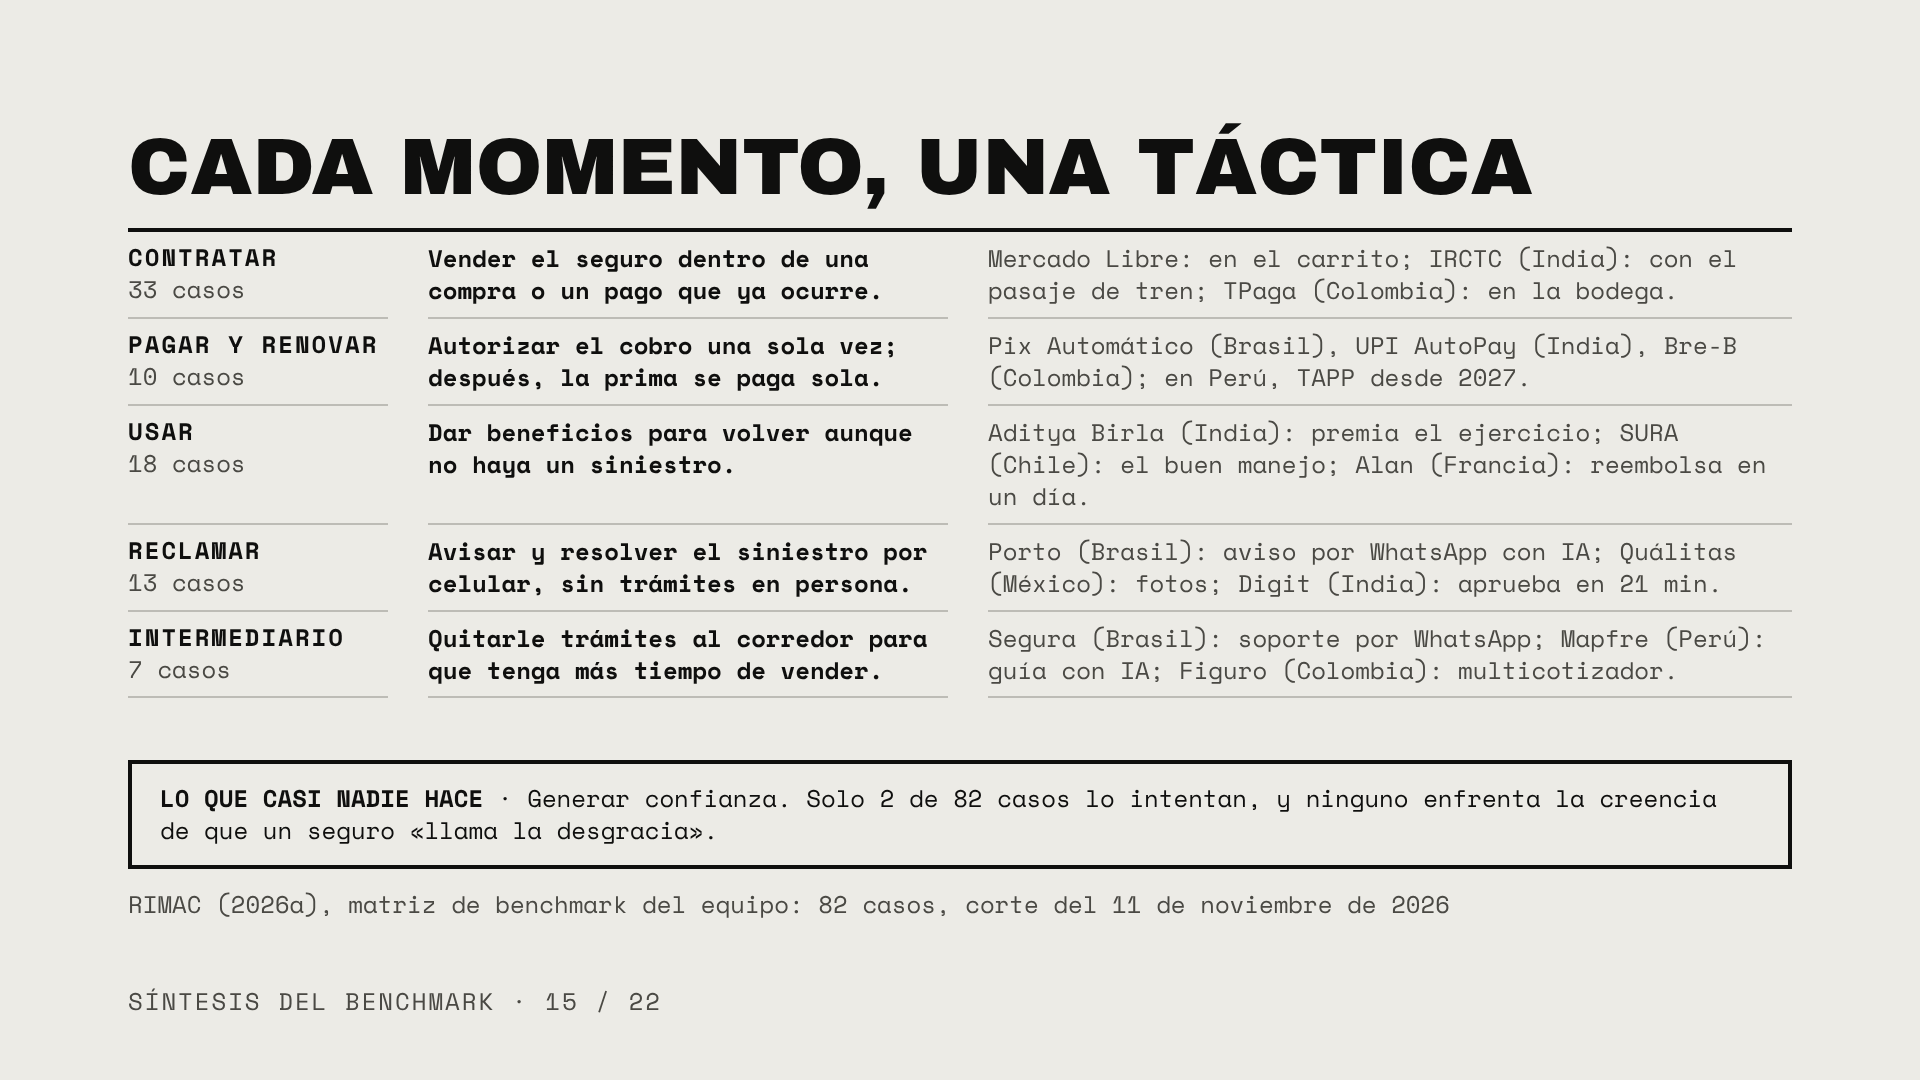
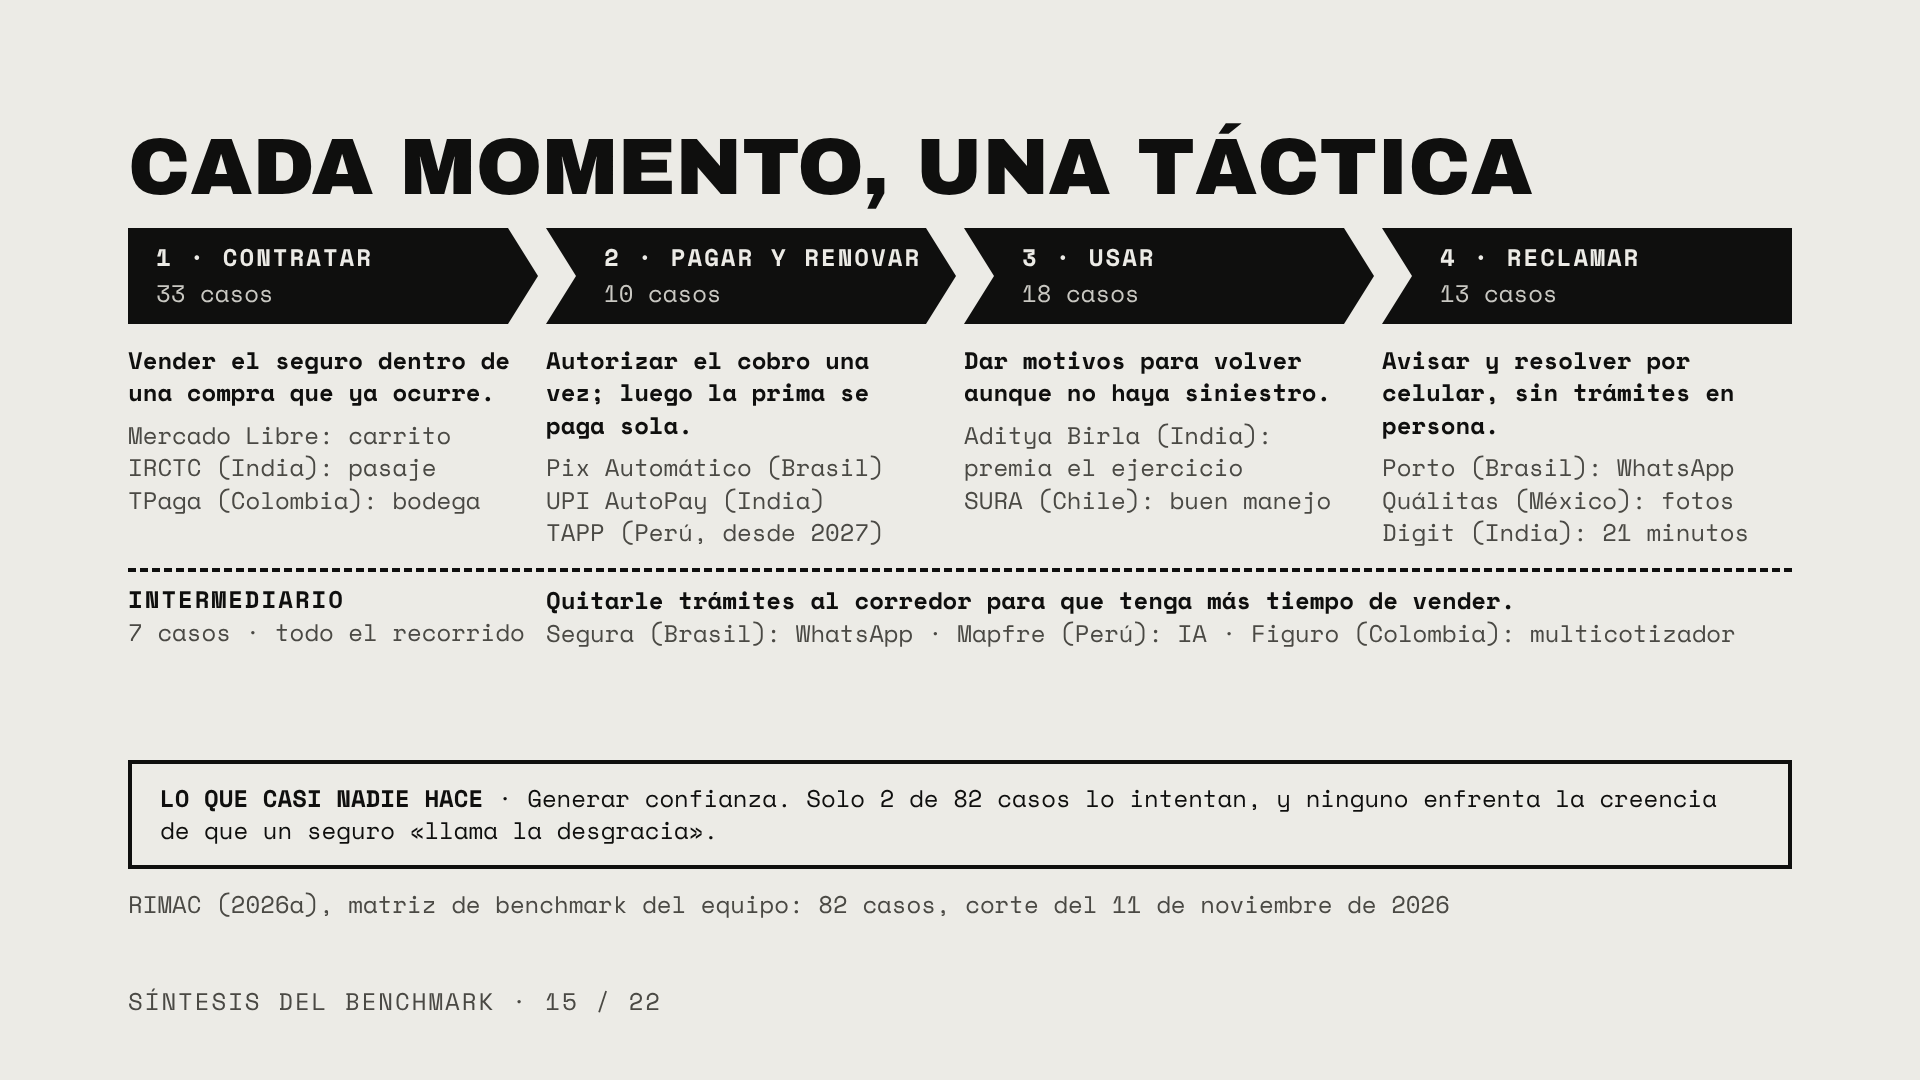
Convierte la lámina de tácticas en un journey del cliente
Claude-Session: https://claude.ai/code/session_0172Gzwbb2YLHGW14wEzAdeb

Changed region(s): [[0.0625, 0.2139, 0.9375, 0.6417]]

diff --git a/reports/presentacion-sudamerica/monocromo/project/slides/s-tacticas.html b/reports/presentacion-sudamerica/monocromo/project/slides/s-tacticas.html
@@ -1,25 +1,34 @@
 <section id="s-tacticas" class="inv" data-transition="fade">
 <h2 class="t">Cada momento, una táctica</h2>
-<div style="display:grid;grid-template-columns:260px 520px 1fr;column-gap:40px;border-top:4px solid #0F0F0E">
-<div style="padding:10px 0;border-bottom:2px solid #BDBCB6"><p class="k">Contratar</p><p class="dim">33 casos</p></div>
-<div style="padding:10px 0;border-bottom:2px solid #BDBCB6"><p class="txt"><b>Vender el seguro dentro de una compra o un pago que ya ocurre.</b></p></div>
-<div style="padding:10px 0;border-bottom:2px solid #BDBCB6"><p class="dim">Mercado Libre: en el carrito; IRCTC (India): con el pasaje de tren; TPaga (Colombia): en la bodega.</p></div>
-<div style="padding:10px 0;border-bottom:2px solid #BDBCB6"><p class="k">Pagar y renovar</p><p class="dim">10 casos</p></div>
-<div style="padding:10px 0;border-bottom:2px solid #BDBCB6"><p class="txt"><b>Autorizar el cobro una sola vez; después, la prima se paga sola.</b></p></div>
-<div style="padding:10px 0;border-bottom:2px solid #BDBCB6"><p class="dim">Pix Automático (Brasil), UPI AutoPay (India), Bre-B (Colombia); en Perú, TAPP desde 2027.</p></div>
-<div style="padding:10px 0;border-bottom:2px solid #BDBCB6"><p class="k">Usar</p><p class="dim">18 casos</p></div>
-<div style="padding:10px 0;border-bottom:2px solid #BDBCB6"><p class="txt"><b>Dar beneficios para volver aunque no haya un siniestro.</b></p></div>
-<div style="padding:10px 0;border-bottom:2px solid #BDBCB6"><p class="dim">Aditya Birla (India): premia el ejercicio; SURA (Chile): el buen manejo; Alan (Francia): reembolsa en un día.</p></div>
-<div style="padding:10px 0;border-bottom:2px solid #BDBCB6"><p class="k">Reclamar</p><p class="dim">13 casos</p></div>
-<div style="padding:10px 0;border-bottom:2px solid #BDBCB6"><p class="txt"><b>Avisar y resolver el siniestro por celular, sin trámites en persona.</b></p></div>
-<div style="padding:10px 0;border-bottom:2px solid #BDBCB6"><p class="dim">Porto (Brasil): aviso por WhatsApp con IA; Quálitas (México): fotos; Digit (India): aprueba en 21 min.</p></div>
-<div style="padding:10px 0;border-bottom:2px solid #BDBCB6"><p class="k">Intermediario</p><p class="dim">7 casos</p></div>
-<div style="padding:10px 0;border-bottom:2px solid #BDBCB6"><p class="txt"><b>Quitarle trámites al corredor para que tenga más tiempo de vender.</b></p></div>
-<div style="padding:10px 0;border-bottom:2px solid #BDBCB6"><p class="dim">Segura (Brasil): soporte por WhatsApp; Mapfre (Perú): guía con IA; Figuro (Colombia): multicotizador.</p></div>
+<div class="host" style="width:1664px;height:96px">
+<svg aria-label="Recorrido del cliente en cuatro etapas: contratar, pagar y renovar, usar y reclamar" width="1664" height="96" viewBox="0 0 1664 96">
+<polygon points="0,0 380,0 410,48 380,96 0,96" fill="#0F0F0E"/>
+<polygon points="418,0 798,0 828,48 798,96 418,96 448,48" fill="#0F0F0E"/>
+<polygon points="836,0 1216,0 1246,48 1216,96 836,96 866,48" fill="#0F0F0E"/>
+<polygon points="1254,0 1664,0 1664,96 1254,96 1284,48" fill="#0F0F0E"/>
+</svg>
+<p class="lab" style="left:28px;top:14px;width:340px;color:#ECEBE6;font-weight:700;letter-spacing:2px">1 · CONTRATAR</p>
+<p class="lab" style="left:28px;top:50px;width:340px;color:#C9C8C2">33 casos</p>
+<p class="lab" style="left:476px;top:14px;width:320px;color:#ECEBE6;font-weight:700;letter-spacing:2px">2 · PAGAR Y RENOVAR</p>
+<p class="lab" style="left:476px;top:50px;width:320px;color:#C9C8C2">10 casos</p>
+<p class="lab" style="left:894px;top:14px;width:320px;color:#ECEBE6;font-weight:700;letter-spacing:2px">3 · USAR</p>
+<p class="lab" style="left:894px;top:50px;width:320px;color:#C9C8C2">18 casos</p>
+<p class="lab" style="left:1312px;top:14px;width:340px;color:#ECEBE6;font-weight:700;letter-spacing:2px">4 · RECLAMAR</p>
+<p class="lab" style="left:1312px;top:50px;width:340px;color:#C9C8C2">13 casos</p>
+</div>
+<div style="display:grid;grid-template-columns:410px 410px 410px 410px;column-gap:8px">
+<div style="padding-right:28px;display:flex;flex-direction:column;gap:10px"><p class="txt"><b>Vender el seguro dentro de una compra que ya ocurre.</b></p><p class="dim">Mercado Libre: carrito<br>IRCTC (India): pasaje<br>TPaga (Colombia): bodega</p></div>
+<div style="padding-right:28px;display:flex;flex-direction:column;gap:10px"><p class="txt"><b>Autorizar el cobro una vez; luego la prima se paga sola.</b></p><p class="dim">Pix Automático (Brasil)<br>UPI AutoPay (India)<br>TAPP (Perú, desde 2027)</p></div>
+<div style="padding-right:28px;display:flex;flex-direction:column;gap:10px"><p class="txt"><b>Dar motivos para volver aunque no haya siniestro.</b></p><p class="dim">Aditya Birla (India):<br>premia el ejercicio<br>SURA (Chile): buen manejo</p></div>
+<div style="padding-right:28px;display:flex;flex-direction:column;gap:10px"><p class="txt"><b>Avisar y resolver por celular, sin trámites en persona.</b></p><p class="dim">Porto (Brasil): WhatsApp<br>Quálitas (México): fotos<br>Digit (India): 21 minutos</p></div>
+</div>
+<div style="display:grid;grid-template-columns:410px 1fr;column-gap:8px;border-top:4px dashed #0F0F0E;padding-top:12px">
+<div><p class="k">Intermediario</p><p class="dim">7 casos · todo el recorrido</p></div>
+<div><p class="txt"><b>Quitarle trámites al corredor para que tenga más tiempo de vender.</b></p><p class="dim">Segura (Brasil): WhatsApp · Mapfre (Perú): IA · Figuro (Colombia): multicotizador</p></div>
 </div>
 <div class="spacer"></div>
 <div class="strip"><p class="txt"><b>LO QUE CASI NADIE HACE</b> · Generar confianza. Solo 2 de 82 casos lo intentan, y ninguno enfrenta la creencia de que un seguro «llama la desgracia».</p></div>
 <p class="src">RIMAC (2026a), matriz de benchmark del equipo: 82 casos, corte del 11 de noviembre de 2026</p>
 <p class="foot">Síntesis del benchmark · 15 / 22</p>
-<aside>Qué decir: esta lámina resume los 82 casos de la matriz de benchmark del equipo según el momento del cliente. Cada fila dice qué hacen las empresas en ese momento, en una frase, y quién lo hace. Contratar (33 casos): vender el seguro dentro de una compra o un pago que la persona ya está haciendo; por ejemplo, Mercado Libre lo ofrece en el carrito, Mercado Pago al recargar, IRCTC en India al comprar el pasaje de tren y TPaga en Colombia a través del tendero. Pagar y renovar (10): la persona autoriza el cobro una sola vez y luego la prima se descuenta sola cada mes, sin tarjeta, con sistemas de pago como Pix Automático en Brasil, UPI AutoPay en India, Bre-B en Colombia y, desde 2027, TAPP en Perú. Usar (18): dar beneficios concretos para que la persona vuelva aunque no tenga un siniestro; Aditya Birla en India devuelve parte de la prima a quien hace actividad física, SURA en Chile da puntos por manejar bien, Segurísimo en Colombia paga montos pequeños y Alan en Francia reembolsa gastos médicos en un día. Reclamar (13): que la persona avise el siniestro y lo resuelva desde el celular, sin llevar papeles ni esperar a un inspector; Porto en Brasil recibe el aviso por WhatsApp con un asistente de IA, Quálitas en México evalúa con fotos, Tokio Marine en Brasil pide los documentos con el número de identidad y Digit en India aprueba en 21 minutos. Intermediario (7): quitarle trámites al corredor para que dedique más tiempo a vender; Segura en Brasil lo apoya por WhatsApp, Mapfre en Perú lo guía con IA, SURA en México le redacta correos con IA y Figuro en Colombia le cotiza varias aseguradoras a la vez. El caso número 82 es de operación interna y no entra en los cinco momentos. Lo que casi nadie hace: generar confianza; solo 2 de 82 casos lo intentan, ambos al contratar, y ninguno enfrenta la creencia de que comprar un seguro «llama la desgracia», que en Colombia comparte parte de la población (Orozco y Morales, 2022). Es lo que más falta probar en Perú. Fuente: RIMAC (2026a), matriz de benchmark del equipo, corte del 11 de noviembre de 2026; la frase de cada momento es lectura propia. Adaptado de la presentación «Digital en seguros LatAm», v0.2. Puente: ocho casos de esta matriz, cada uno en una cifra.</aside>
+<aside>Qué decir: esta lámina ordena los 82 casos de la matriz de benchmark del equipo como un recorrido del cliente, de izquierda a derecha: contratar, pagar y renovar, usar y reclamar. Debajo de cada etapa va lo que hacen las empresas, en una frase, y quién lo hace. Uno, contratar (33 casos): vender el seguro dentro de una compra o un pago que la persona ya está haciendo; por ejemplo, Mercado Libre lo ofrece en el carrito, Mercado Pago al recargar, IRCTC en India al comprar el pasaje de tren y TPaga en Colombia a través del tendero. Dos, pagar y renovar (10): la persona autoriza el cobro una sola vez y luego la prima se descuenta sola, sin tarjeta, con sistemas de pago como Pix Automático en Brasil, UPI AutoPay en India o Bre-B en Colombia; en Perú, TAPP opera desde 2027 y permitiría hacerlo. Tres, usar (18): dar beneficios concretos para que la persona vuelva aunque no tenga un siniestro; Aditya Birla en India devuelve parte de la prima a quien hace actividad física, SURA en Chile da puntos por manejar bien, Segurísimo en Colombia paga montos pequeños y Alan en Francia reembolsa gastos médicos en un día. Cuatro, reclamar (13): que la persona avise el siniestro y lo resuelva desde el celular, sin llevar papeles ni esperar a un inspector; Porto en Brasil recibe el aviso por WhatsApp con un asistente de IA, Quálitas en México evalúa con fotos, Tokio Marine en Brasil pide los documentos con el número de identidad y Digit en India aprueba en 21 minutos. Debajo, con línea punteada, el intermediario (7 casos), que acompaña todo el recorrido: quitarle trámites al corredor para que dedique más tiempo a vender; Segura en Brasil lo apoya por WhatsApp, Mapfre en Perú lo guía con IA, SURA en México le redacta correos con IA y Figuro en Colombia le cotiza varias aseguradoras a la vez. El caso número 82 es de operación interna y no entra en el recorrido. Lo que casi nadie hace: generar confianza; solo 2 de 82 casos lo intentan, ambos al contratar, y ninguno enfrenta la creencia de que comprar un seguro «llama la desgracia», que en Colombia comparte parte de la población (Orozco y Morales, 2022). Es lo que más falta probar en Perú. Ojo: varios ejemplos son plataformas o sistemas de pago, no aseguradoras. Fuente: RIMAC (2026a), matriz de benchmark del equipo, corte del 11 de noviembre de 2026; la frase de cada momento es lectura propia. Adaptado de la presentación «Digital en seguros LatAm», v0.2. Puente: ocho casos de esta matriz, cada uno en una cifra.</aside>
 </section>
